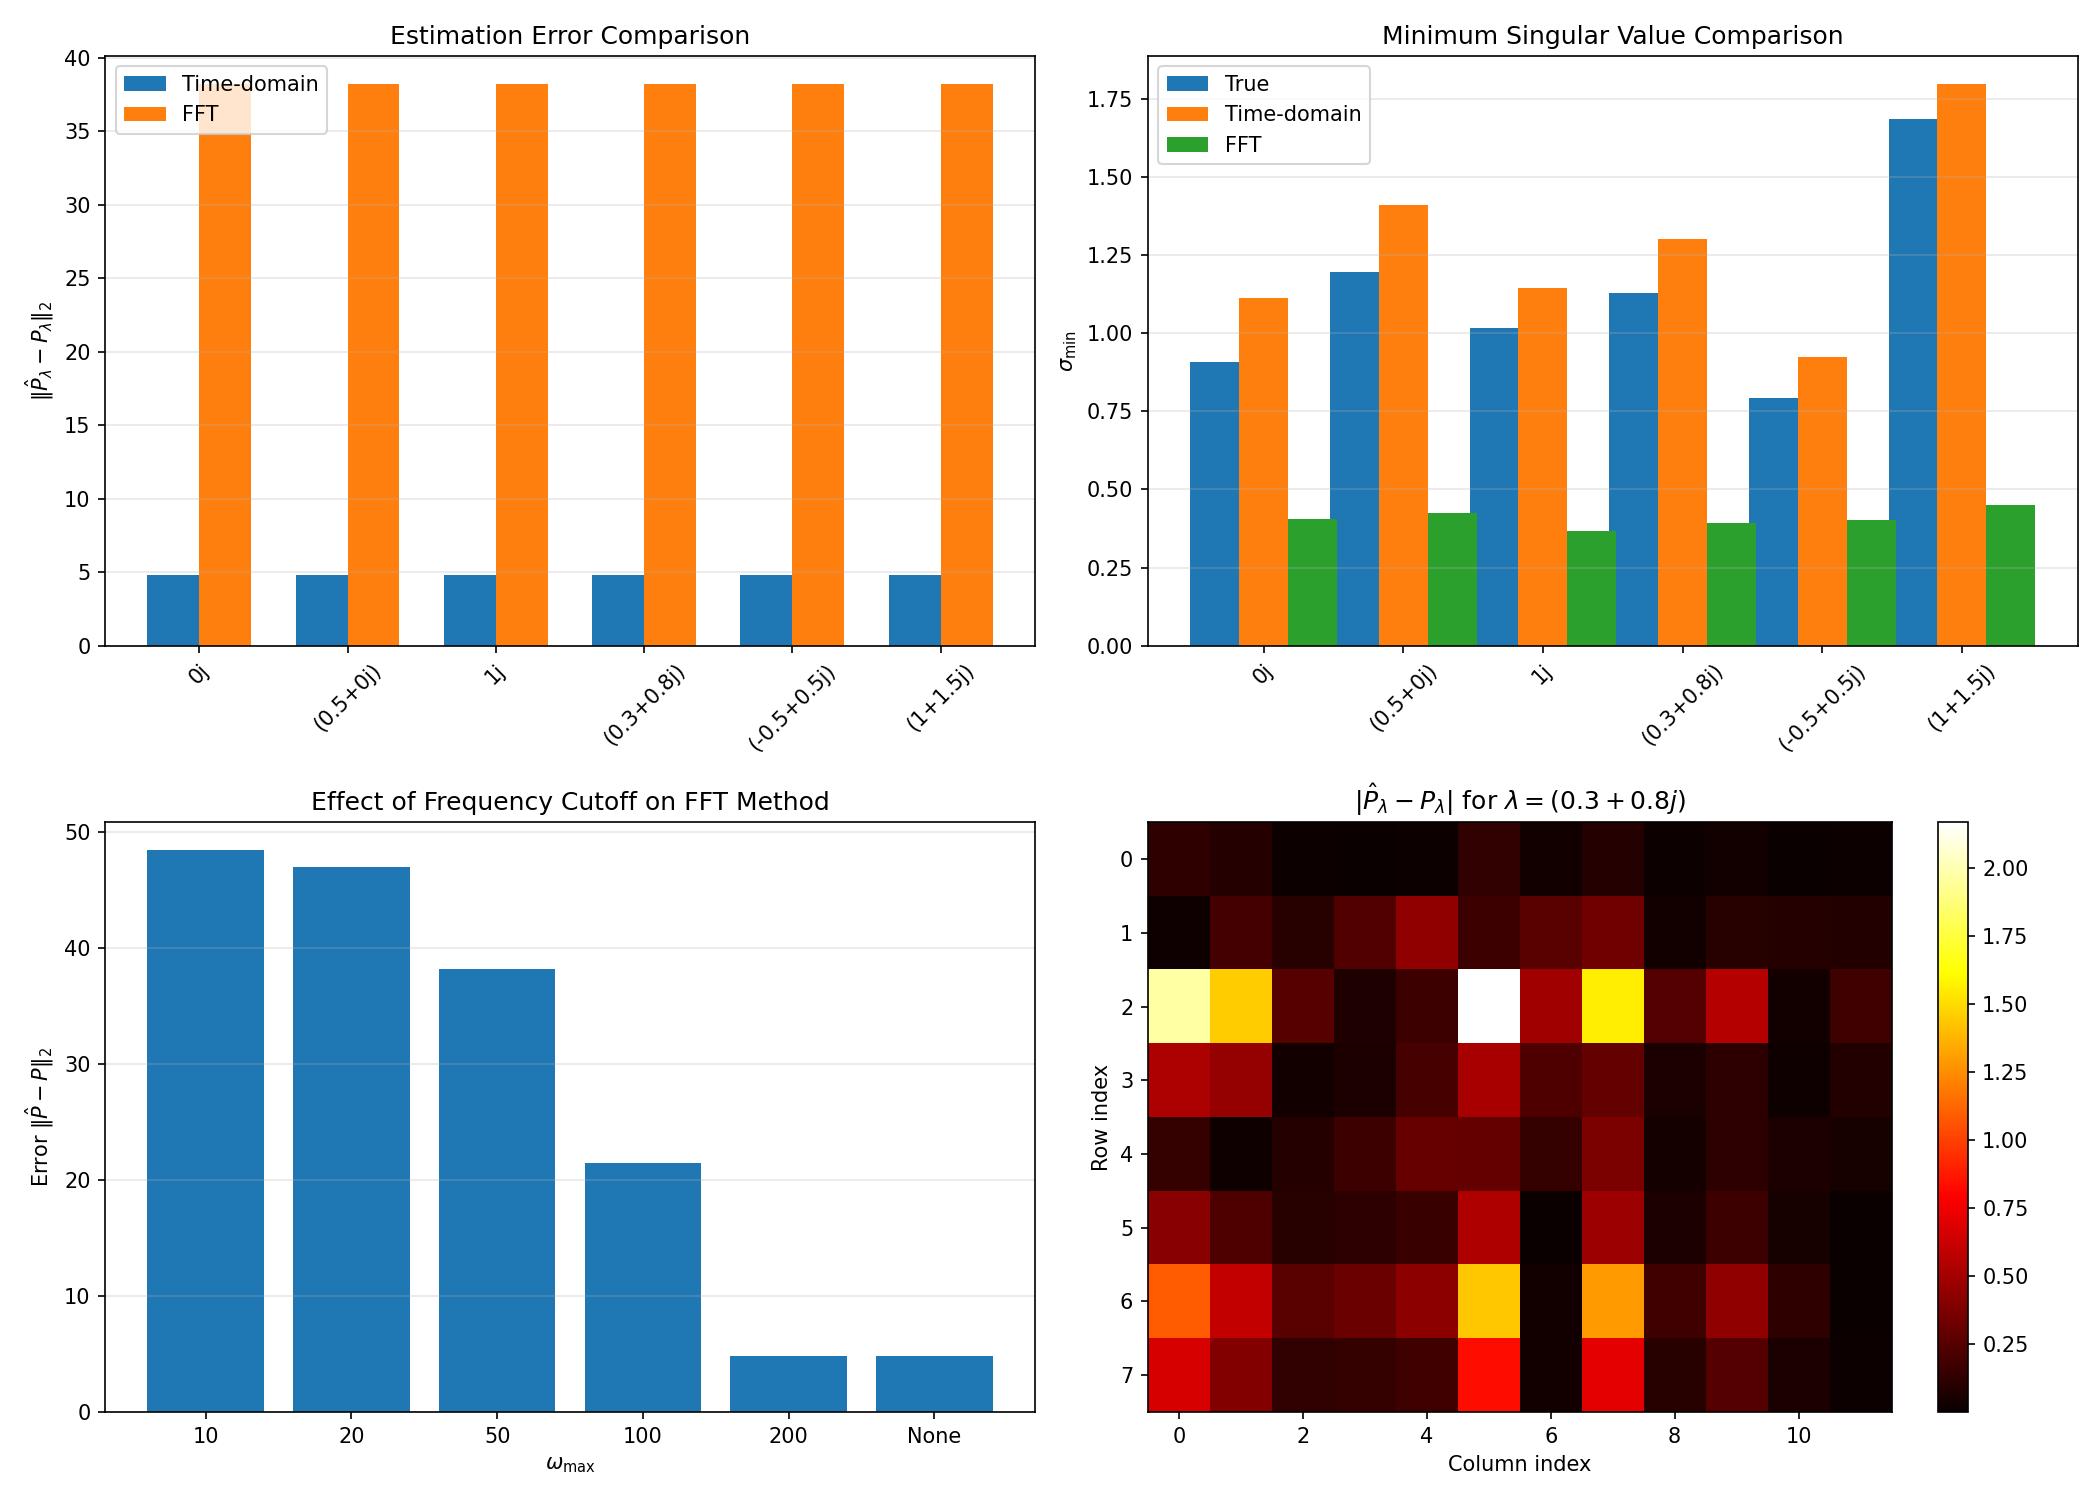
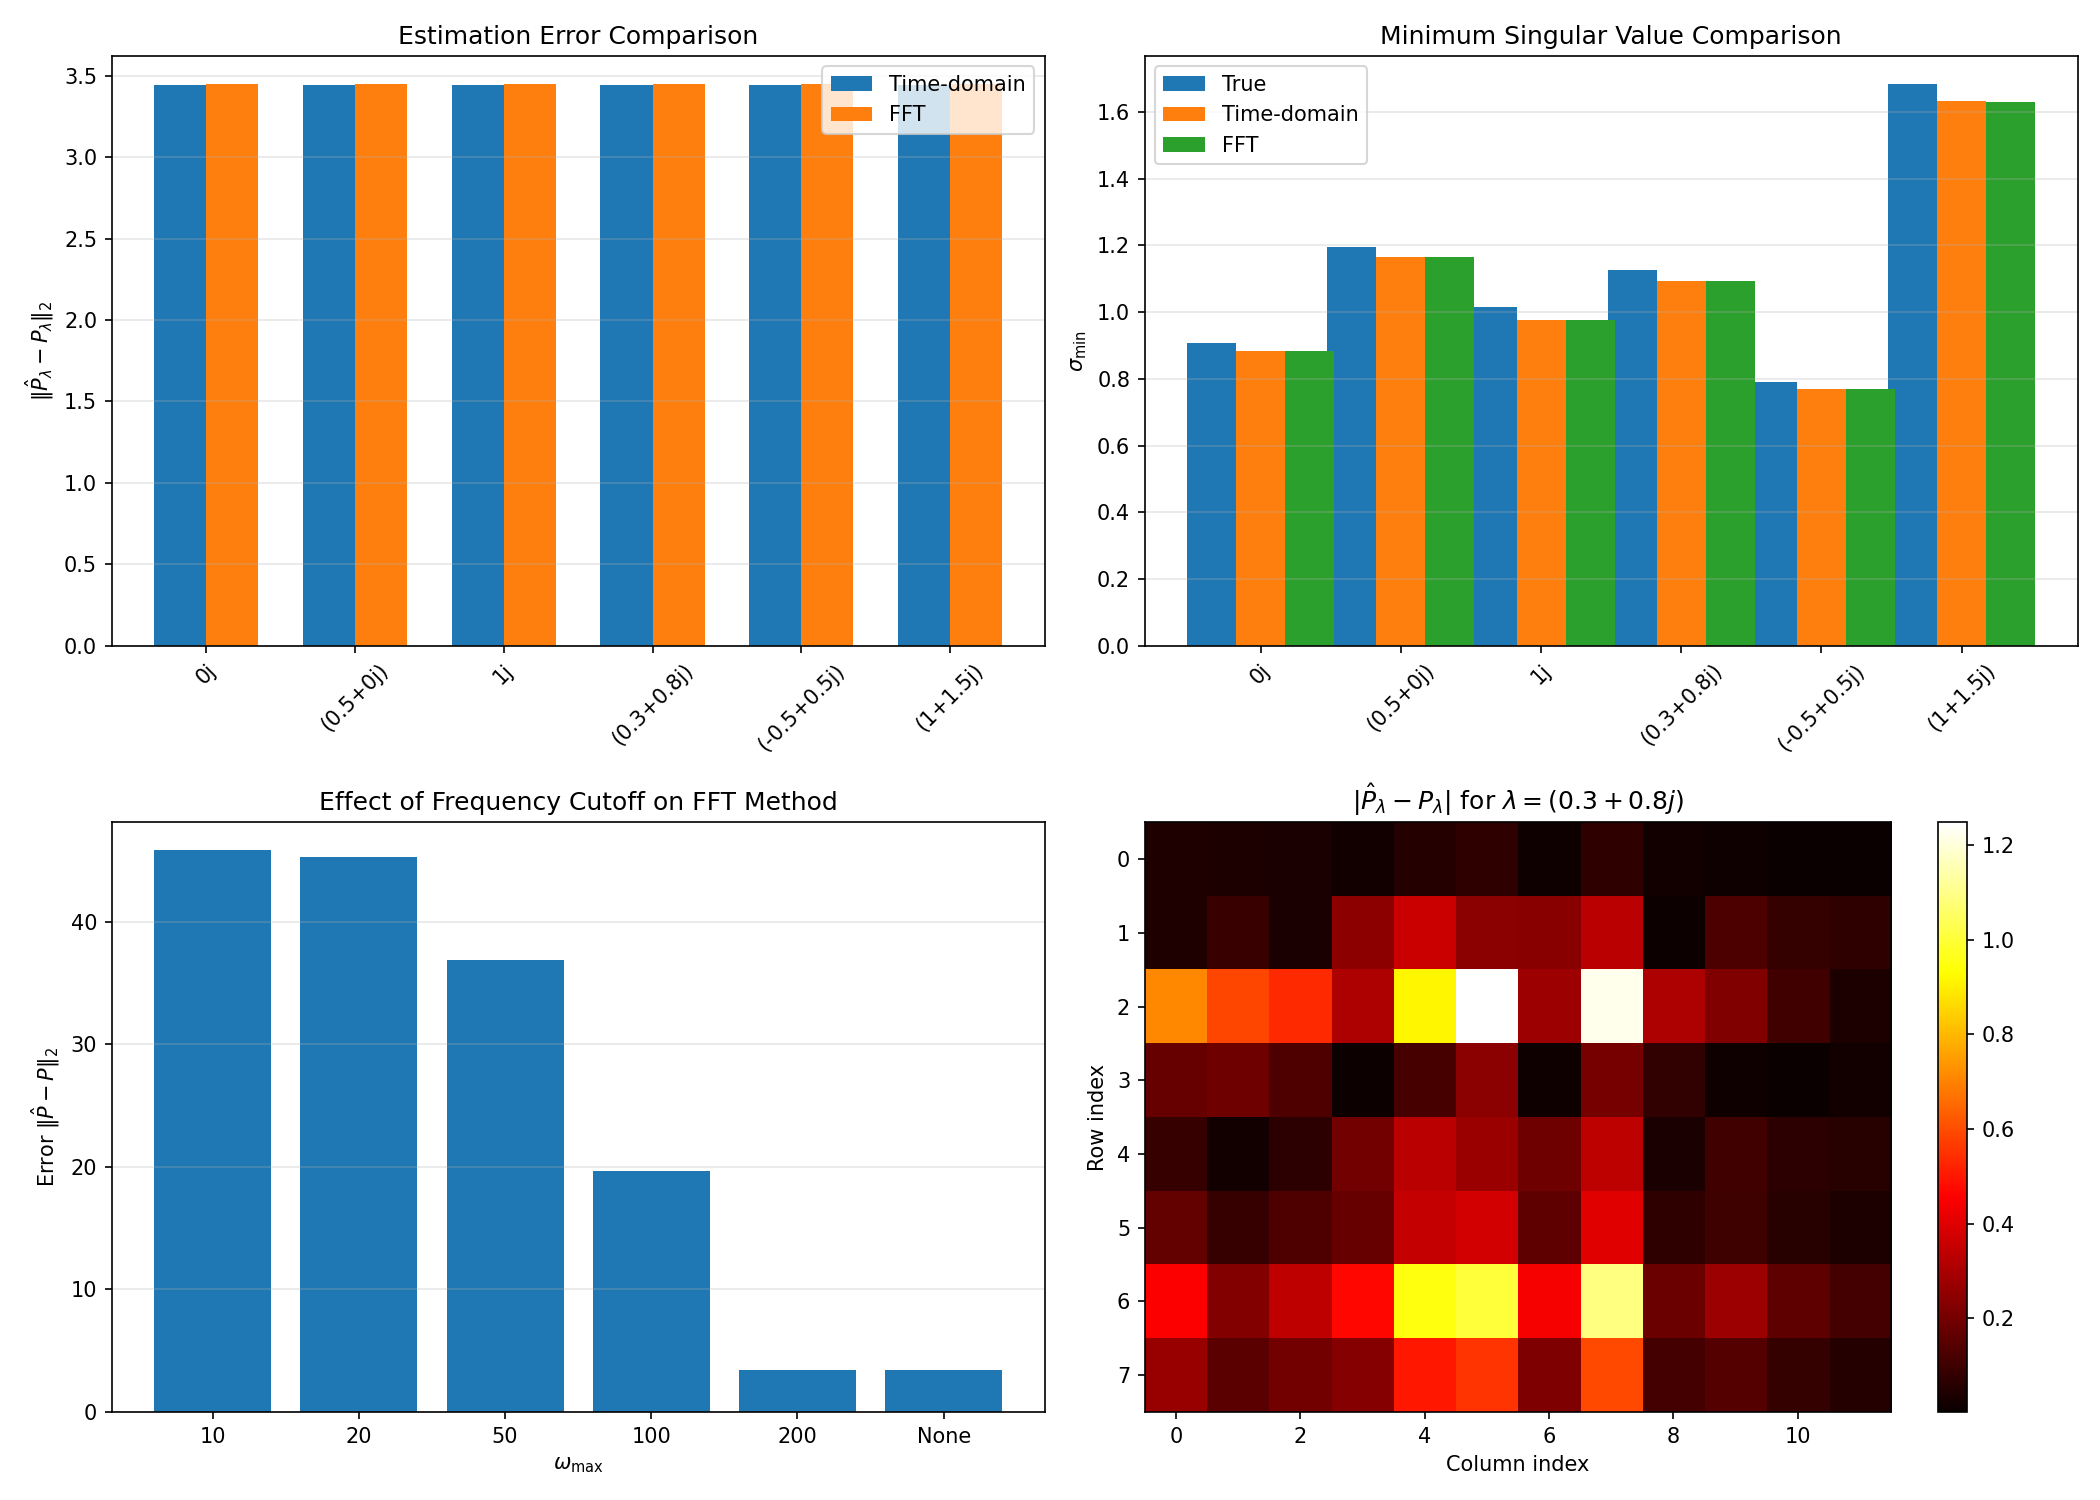
ewn

diff --git a/examples/error_convergence.py b/examples/error_convergence.py
@@ -10,6 +10,8 @@ This example validates Proposition 1 (Cross-moment error bound) by:
 import torch
 import numpy as np
 import matplotlib.pyplot as plt
+import seaborn as sns
+import pandas as pd
 import sys
 import os
 sys.path.insert(0, os.path.dirname(os.path.dirname(os.path.abspath(__file__))))
@@ -76,22 +78,34 @@ def main():
     
     # Simulation parameters
     dt = 0.05
-    batch = 1
+    batch = 50  # Use batch for Monte Carlo trials
     
     # Test value of lambda
     lam = 0.5 + 0.8j
     
-    # Range of horizon lengths
+    # Range of horizon lengths - simulate once with max T and subsample
     T_values = [10, 20, 50, 100, 200, 500, 1000]
-    
-    # Number of Monte Carlo trials
-    n_trials = 10
+    T_max = max(T_values)
     
     print(f"System: n={n}, m={m}, q={q}")
     print(f"Testing λ = {lam}")
-    print(f"Running {n_trials} trials for each T value...")
+    print(f"Simulating batch of {batch} trajectories with T_max = {T_max}...")
     
-    # Storage for results
+    # Create SDE and simulate once with maximum T
+    sde = ControlledLinearSDE(A, B, Beta).to(device)
+    ts = create_time_grid(T_max, dt, device)
+    x0 = torch.zeros(batch, n, device=device)
+    
+    # Simulate all trajectories at once: shape (N, batch, n)
+    x_full = sdeint_safe(sde, x0, ts, dt)
+    u_full = sde.u(ts, x_full[:, 0, :])  # (N, m)
+    if u_full.ndim == 3:
+        u_full = u_full[:, 0, :]  # Control is same for all batch elements
+    
+    # Storage for results - collect all individual errors for seaborn
+    from control import gramian_Sz_time
+    
+    records = []  # For DataFrame
     mean_errors_time = []
     mean_errors_fft = []
     std_errors_time = []
@@ -101,32 +115,36 @@ def main():
     for T in T_values:
         print(f"\nT = {T}...")
         
+        # Compute number of timesteps for this T
+        N_T = int(T / dt) + 1
+        
+        # Subsample trajectories up to time T
+        x_T = x_full[:N_T]  # (N_T, batch, n)
+        u_T = u_full[:N_T]  # (N_T, m)
+        
         errors_time = []
         errors_fft = []
         sigma_min_Sz_list = []
         
-        for trial in range(n_trials):
-            # Create SDE and simulate
-            sde = ControlledLinearSDE(A, B, Beta).to(device)
-            ts = create_time_grid(T, dt, device)
-            x0 = torch.zeros(batch, n, device=device)
-            
-            # Simulate
-            x = sdeint_safe(sde, x0, ts, dt)[:, 0, :]
-            u = sde.u(ts, x)
-            if u.ndim == 3:
-                u = u[:, 0, :]
+        # Process each batch element
+        for b in range(batch):
+            x_b = x_T[:, b, :]  # (N_T, n)
             
             # Compute errors
-            result_time = compare_with_true(A, B, x, u, dt, lam, ridge=1e-10, method="time")
-            result_fft = compare_with_true(A, B, x, u, dt, lam, ridge=1e-10, method="fft", omega_max=100)
+            result_time = compare_with_true(A, B, x_b, u_T, dt, lam, ridge=1e-10, method="time")
+            result_fft = compare_with_true(A, B, x_b, u_T, dt, lam, ridge=1e-10, method="fft", omega_max=100)
             
-            errors_time.append(result_time["error_norm"])
-            errors_fft.append(result_fft["error_norm"])
+            err_time = result_time["error_norm"]
+            err_fft = result_fft["error_norm"]
+            
+            errors_time.append(err_time)
+            errors_fft.append(err_fft)
+            
+            # Record for DataFrame
+            records.append({"T": T, "batch": b, "error_time": err_time, "error_fft": err_fft})
             
             # Compute normalized S_Z for theoretical bound
-            from control import gramian_Sz_time
-            Sz = gramian_Sz_time(x, u, dt)
+            Sz = gramian_Sz_time(x_b, u_T, dt)
             sigma_min_Sz_list.append(torch.linalg.svdvals(Sz).min().item() / T)
         
         mean_errors_time.append(np.mean(errors_time))
@@ -143,48 +161,49 @@ def main():
         print(f"  FFT:  {mean_errors_fft[-1]:.4f} ± {std_errors_fft[-1]:.4f}")
         print(f"  Bound: {bound:.4f}")
     
-    # Convert to arrays
-    T_values = np.array(T_values)
+    # Create DataFrame for seaborn
+    df = pd.DataFrame(records)
+    
+    # Convert to arrays for classic plots
+    T_values_arr = np.array(T_values)
     mean_errors_time = np.array(mean_errors_time)
     mean_errors_fft = np.array(mean_errors_fft)
     theoretical_bounds = np.array(theoretical_bounds)
     
-    # Plot results
-    fig, (ax1, ax2) = plt.subplots(1, 2, figsize=(14, 5))
+    # =========================================================================
+    # Classic plot: Theoretical bound comparison with individual trajectories
+    # =========================================================================
+    fig, ax = plt.subplots(1, 1, figsize=(7, 5))
     
-    # Error vs T (log-log)
-    ax1.loglog(T_values, mean_errors_time, 'o-', label='Time-domain', markersize=8, alpha=0.7)
-    ax1.loglog(T_values, mean_errors_fft, 's-', label='FFT', markersize=8, alpha=0.7)
+    # Plot individual batch trajectories with transparency (connected over T)
+    for b in range(batch):
+        errors_b_time = df[df['batch'] == b]['error_time'].values
+        errors_b_fft = df[df['batch'] == b]['error_fft'].values
+        ax.plot(T_values_arr, errors_b_time, '-', color='C0', alpha=0.15, linewidth=0.8)
+        ax.plot(T_values_arr, errors_b_fft, '-', color='C1', alpha=0.15, linewidth=0.8)
     
-    # Fit T^{-1/2} line
-    C_fit = np.mean(mean_errors_time * np.sqrt(T_values))
-    T_fit = np.linspace(T_values.min(), T_values.max(), 100)
-    ax1.loglog(T_fit, C_fit / np.sqrt(T_fit), '--', color='red', 
-               label='$O(T^{-1/2})$', linewidth=2)
+    # Mean lines with markers
+    ax.loglog(T_values_arr, mean_errors_time, 'o-', label='Empirical (time)', markersize=8, color='C0')
+    ax.loglog(T_values_arr, mean_errors_fft, 's-', label='Empirical (FFT)', markersize=8, color='C1')
+    ax.loglog(T_values_arr, theoretical_bounds, '^--', label='Theoretical bound (Prop. 1)', markersize=8, color='C2')
     
-    ax1.set_xlabel('Horizon length $T$')
-    ax1.set_ylabel('$\\|\\hat{P}_\\lambda - P_\\lambda\\|_2$')
-    ax1.set_title('Error Convergence Rate')
-    ax1.legend()
-    ax1.grid(True, alpha=0.3, which='both')
-    
-    # Comparison with theoretical bound
-    ax2.semilogy(T_values, mean_errors_time, 'o-', label='Empirical (time)', markersize=8)
-    ax2.semilogy(T_values, theoretical_bounds, 's--', label='Theoretical bound (Prop. 1)', markersize=8)
-    ax2.fill_between(T_values, 
+    # Fill between for std (time method)
+    ax.fill_between(T_values_arr, 
                       mean_errors_time - np.array(std_errors_time),
                       mean_errors_time + np.array(std_errors_time),
-                      alpha=0.3)
+                      alpha=0.3, color='C0')
     
-    ax2.set_xlabel('Horizon length $T$')
-    ax2.set_ylabel('Error')
-    ax2.set_title('Empirical Error vs. Theoretical Bound')
-    ax2.legend()
-    ax2.grid(True, alpha=0.3, which='both')
+    ax.set_xscale('log')
+    ax.set_yscale('log')
+    ax.set_xlabel('Horizon length $T$')
+    ax.set_ylabel('Error')
+    ax.set_title('Empirical Error vs. Theoretical Bound')
+    ax.legend()
+    ax.grid(True, alpha=0.3, which='both')
     
     plt.tight_layout()
-    p = save_fig('error_convergence.png', dpi=150)
-    print(f"\nPlot saved to '{p}'")
+    p2 = save_fig('error_convergence.png', dpi=150)
+    print(f"Classic plot saved to '{p2}'")
     plt.show()
     
     # Print summary
@@ -193,7 +212,7 @@ def main():
     print("="*60)
     
     # Estimate convergence rate
-    log_T = np.log(T_values)
+    log_T = np.log(T_values_arr)
     log_err = np.log(mean_errors_time)
     slope, intercept = np.polyfit(log_T, log_err, 1)
     

diff --git a/examples/basic_hautus_test.py b/examples/basic_hautus_test.py
@@ -4,14 +4,19 @@ This example shows how to:
 1. Simulate a controlled linear SDE
 2. Compute the estimated Hautus matrix from data
 3. Compare with the true Hautus matrix
-4. Visualize the results
+4. Visualize the results including error distribution across eigenvalues
 """
 
 import torch
 import matplotlib.pyplot as plt
+import seaborn as sns
+import pandas as pd
+import numpy as np
 import sys
 import os
 sys.path.insert(0, os.path.dirname(os.path.dirname(os.path.abspath(__file__))))
+
+from examples import save_fig
 
 from control import (
     ControlledLinearSDE,
@@ -24,6 +29,7 @@ from control import (
     plot_trajectory_2d,
     plot_matrix_comparison,
     plot_singular_values,
+    compute_candidate_eigenvalues,
 )
 
 
@@ -44,20 +50,22 @@ def main():
     Beta = torch.randn(n, q, device=device) / n  # noise coefficient
     
     # Simulation parameters
-    T = 50.0
+    T = 100.0
     dt = 0.05
-    batch = 1
+    batch = 50  # Use larger batch for violinplot samples
     
     # Create SDE and simulate
     sde = ControlledLinearSDE(A, B, Beta).to(device)
     ts = create_time_grid(T, dt, device)
     x0 = torch.zeros(batch, n, device=device)
     
-    x, u = simulate_sde(sde, x0, ts, dt)
-    x = x[:, 0, :]  # Remove batch dimension (N, n)
-    u = u[:, 0, :]  # (N, m)
+    x_full, u_full = simulate_sde(sde, x0, ts, dt)  # (N, batch, n) and (N, batch, m)
     
-    print(f"Simulated trajectory: x.shape = {x.shape}, u.shape = {u.shape}")
+    # For single-trajectory analysis, use first batch element
+    x = x_full[:, 0, :]  # (N, n)
+    u = u_full[:, 0, :]  # (N, m)
+    
+    print(f"Simulated {batch} trajectories: x_full.shape = {x_full.shape}")
     
     # Choose a test value of lambda
     lam = 0.3 + 1.3j
@@ -80,6 +88,91 @@ def main():
     print(f"  Estimated σ_min(P̂_λ) = {result_fft['sigma_min_hat']:.6f}")
     print(f"  Error ||P̂_λ - P_λ||_2 = {result_fft['error_norm']:.6f}")
     
+    # =========================================================================
+    # Test multiple eigenvalues for violinplot (using all batch samples)
+    # =========================================================================
+    print("\n" + "="*60)
+    print("TESTING MULTIPLE EIGENVALUES")
+    print("="*60)
+    
+    # Get candidate eigenvalues from the system matrix A
+    eigenvalues_A = torch.linalg.eigvals(A).cpu().numpy()
+    
+    # Also test some random eigenvalues in the left half-plane
+    np.random.seed(42)
+    n_random = 20
+    random_lambdas = -np.abs(np.random.randn(n_random)) + 1j * np.random.randn(n_random) * 2
+    
+    # Combine: actual eigenvalues + random test points
+    test_lambdas = list(eigenvalues_A) + list(random_lambdas)
+    
+    # Collect errors for each eigenvalue and each batch sample
+    records = []
+    for b in range(batch):
+        x_b = x_full[:, b, :]  # (N, n)
+        u_b = u_full[:, b, :]  # (N, m)
+        
+        for i, lam_test in enumerate(test_lambdas):
+            lam_test = complex(lam_test)
+            
+            result_time = compare_with_true(A, B, x_b, u_b, dt, lam_test, ridge=1e-8, method="time")
+            result_fft = compare_with_true(A, B, x_b, u_b, dt, lam_test, ridge=1e-8, method="fft", omega_max=100)
+            
+            is_eig = "A eigenvalue" if i < len(eigenvalues_A) else "Random λ"
+            
+            # Use σ_min(P) - σ_min(P̂) as error (signed difference)
+            records.append({
+                "λ": f"{lam_test:.2f}",
+                "batch": b,
+                "type": is_eig,
+                "method": "Time-domain",
+                "error": result_time["sigma_min_true"] - result_time["sigma_min_hat"],
+                "sigma_min_hat": result_time["sigma_min_hat"],
+                "sigma_min_true": result_time["sigma_min_true"],
+                "real_part": lam_test.real,
+            })
+            records.append({
+                "λ": f"{lam_test:.2f}",
+                "batch": b,
+                "type": is_eig,
+                "method": "FFT",
+                "error": result_fft["sigma_min_true"] - result_fft["sigma_min_hat"],
+                "sigma_min_hat": result_fft["sigma_min_hat"],
+                "sigma_min_true": result_fft["sigma_min_true"],
+                "real_part": lam_test.real,
+            })
+    
+    df = pd.DataFrame(records)
+    
+    print(f"Tested {len(test_lambdas)} eigenvalues × {batch} samples = {len(test_lambdas) * batch} total")
+    print(f"  ({len(eigenvalues_A)} from A, {n_random} random)")
+    print(f"Mean error (Time): {df[df['method']=='Time-domain']['error'].mean():.6f}")
+    print(f"Mean error (FFT):  {df[df['method']=='FFT']['error'].mean():.6f}")
+    
+    # =========================================================================
+    # Violinplot for errors
+    # =========================================================================
+    sns.set_theme(style="whitegrid")
+    
+    fig_violin, ax1 = plt.subplots(figsize=(8, 5))
+    
+    # Violinplot: Errors by method
+    sns.violinplot(
+        data=df, x="method", y="error", hue="type",
+        split=True, inner="quart", palette="muted", ax=ax1
+    )
+    ax1.set_xlabel("Method")
+    ax1.set_ylabel("$\\sigma_{\\min}(P_\\lambda) - \\sigma_{\\min}(\\hat{P}_\\lambda)$")
+    ax1.set_title("Error Distribution by Method and λ Type")
+    ax1.legend(title="λ type", loc="upper right")
+    
+    plt.tight_layout()
+    p1 = save_fig('hautus_error_violinplot.png', fig=fig_violin, dpi=150)
+    print(f"\nViolinplot saved to '{p1}'")
+    
+    # =========================================================================
+    # Original visualizations
+    # =========================================================================
     # Visualize trajectory
     fig1, ax1 = plot_trajectory_2d(
         x, 

diff --git a/examples/method_comparison.py b/examples/method_comparison.py
@@ -102,7 +102,7 @@ def main():
         errors_time.append(err_time)
         
         # FFT method
-        H_fft, Sz_fft = cross_moment_H_fft(x, u, lam=lam, dt=dt, omega_max=50)
+        H_fft, Sz_fft = cross_moment_H_fft(x, u, lam=lam, dt=dt, omega_max=200)
         P_hat_fft = estimate_Hautus_matrix(H_fft, Sz_fft, ridge=1e-10)
         sigma_fft = torch.linalg.svdvals(P_hat_fft).min().item()
         err_fft = torch.linalg.norm(P_hat_fft - P_true.to(P_hat_fft.dtype), ord=2).item()
@@ -158,7 +158,7 @@ def main():
     # FFT timing
     start = time.time()
     for _ in range(n_repeats):
-        H_fft, Sz_fft = cross_moment_H_fft(x, u, lam=lam_test, dt=dt, omega_max=50)
+        H_fft, Sz_fft = cross_moment_H_fft(x, u, lam=lam_test, dt=dt, omega_max=200)
         P_hat = estimate_Hautus_matrix(H_fft, Sz_fft, ridge=1e-10)
     fft_elapsed = (time.time() - start) / n_repeats
     

diff --git a/examples/trajectory_visualization.py b/examples/trajectory_visualization.py
@@ -150,16 +150,16 @@ def main():
     ax6.grid(True, alpha=0.3)
     
     # Save figures into images/ using shared helper
-    p1 = save_fig('trajectory_2d.png', fig=fig1, dpi=150)
+    # p1 = save_fig('trajectory_2d.png', fig=fig1, dpi=150)
     p2 = save_fig('trajectory_3d.png', fig=fig2, dpi=150)
     p3 = save_fig('trajectory_multipanel.png', fig=fig5, dpi=150)
-    p4 = save_fig('trajectory_energy.png', fig=fig6, dpi=150)
+    # p4 = save_fig('trajectory_energy.png', fig=fig6, dpi=150)
 
     print("\nFigures saved:")
-    print(f"  - {p1}")
+    # print(f"  - {p1}")
     print(f"  - {p2}")
     print(f"  - {p3}")
-    print(f"  - {p4}")
+    # print(f"  - {p4}")
     
     plt.show()
 
